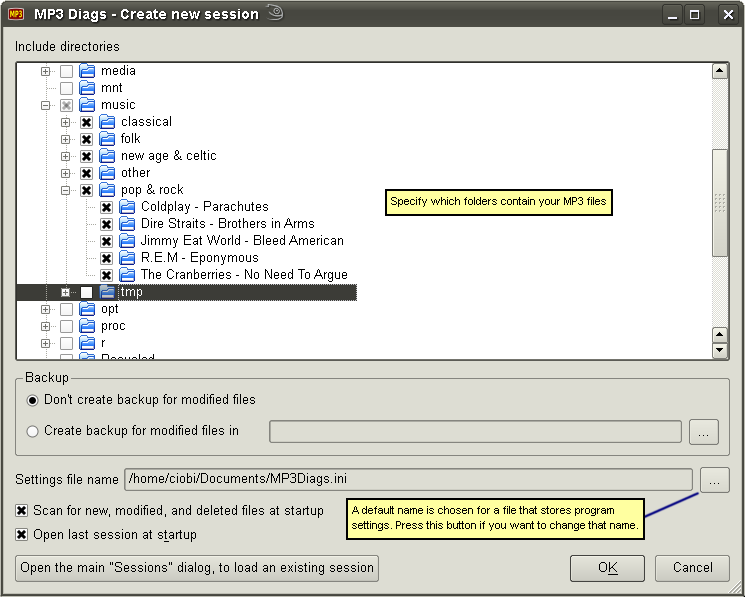
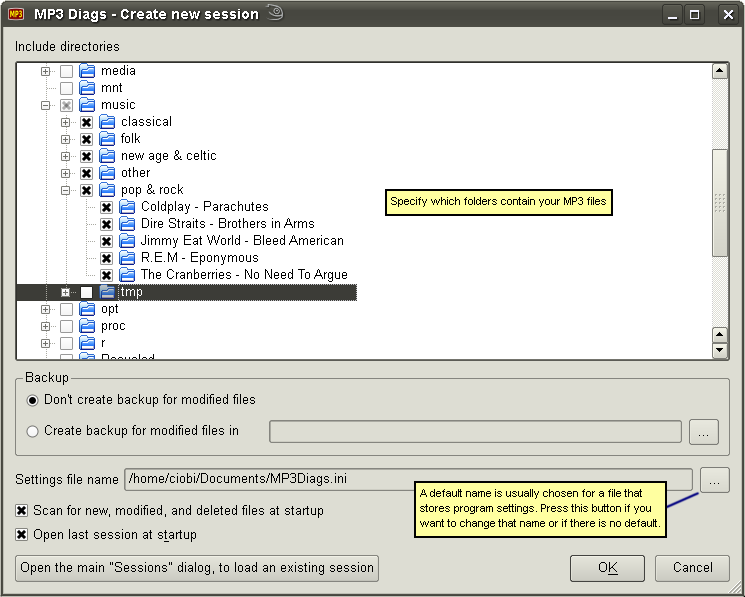
static link for serialization + new repositories
git-svn-id: https://mp3diags.svn.sourceforge.net/svnroot/mp3diags/trunk/mp3diags@111 f8aa0ff1-aaa6-4a14-9261-7bf0db1e1f66

Changed region(s): [[0.4631, 0.7839, 0.8953, 0.9045]]

diff --git a/doc/html/010_getting_the_program.html b/doc/html/010_getting_the_program.html
@@ -192,7 +192,7 @@ Well, there is <a href="http://pdb.finkproject.org/pdb/package.php/mp3diags-mac"
 
 
 <div class="NormalText RegFnt ChpCol2">
-You can download MP3Diags-QQQVERQQQ.tar.gz from <a href="http://sourceforge.net/projects/mp3diags/files/mp3diags-src/MP3Diags-QQQVERQQQ.tar.gz" onClick="javascript: pageTracker._trackPageview('/files/src');">SourceForge</a> or from <a href="http://web.clicknet.ro/mciobanu/mp3diags/MP3Diags-QQQVERQQQ.tar.gz" onClick="javascript: pageTracker._trackPageview('/clicknet/src');">my ISP</a> (SourceForge seems to be in a perpetual restructuring process, so downloads from it don't always work.) At my ISP you can also find a <a href="http://web.clicknet.ro/mciobanu/mp3diags/MP3Diags_Src+Doc-QQQVERQQQ.tar.gz" onClick="javascript: pageTracker._trackPageview('/clicknet/src_doc');">source + documentation bundle</a>. The intended target for the bundle are the packagers. In particular, the documentation doesn't get installed anywhere, but is mereley available for packagers to copy it wherever is appropriate for their distribution.
+You can download MP3Diags.tar.gz from <a href="http://sourceforge.net/projects/mp3diags/files/mp3diags-src/MP3Diags.tar.gz" onClick="javascript: pageTracker._trackPageview('/files/src');">SourceForge</a> or from <a href="http://web.clicknet.ro/mciobanu/mp3diags/MP3Diags-QQQVERQQQ.tar.gz" onClick="javascript: pageTracker._trackPageview('/clicknet/src');">my ISP</a> (SourceForge seems to be in a perpetual restructuring process, so downloads from it don't always work.) At my ISP you can also find a <a href="http://web.clicknet.ro/mciobanu/mp3diags/MP3Diags_Src+Doc-QQQVERQQQ.tar.gz" onClick="javascript: pageTracker._trackPageview('/clicknet/src_doc');">source + documentation bundle</a>. The intended target for the bundle are the packagers. In particular, the documentation doesn't get installed anywhere, but is mereley available for packagers to copy it wherever is appropriate for their distribution.
 </div>
 
 <div class="NormalText RegFnt ChpCol2">
@@ -341,7 +341,7 @@ In many cases it's possible to choose various options or do things differently, 
 
 
 <div class="NormalText RegFnt ChpCol1">
-After the libraries are downloaded / built, download and unpack MP3Diags-QQQVERQQQ.tar.gz from <a href="http://sourceforge.net/projects/mp3diags/files/mp3diags-src/MP3Diags-QQQVERQQQ.tar.gz" onClick="javascript: pageTracker._trackPageview('/files/src');">SourceForge</a> or from <a href="http://web.clicknet.ro/mciobanu/mp3diags/MP3Diags-QQQVERQQQ.tar.gz" onClick="javascript: pageTracker._trackPageview('/clicknet/src');">my ISP</a>, run <span class="Reference">BuildMp3Diags.hta</span>, fill in the fields, and create the project files or build the program. BuildMp3Diags.hta has more details about this process.
+After the libraries are downloaded / built, download and unpack MP3Diags.tar.gz from <a href="http://sourceforge.net/projects/mp3diags/files/mp3diags-src/MP3Diags.tar.gz" onClick="javascript: pageTracker._trackPageview('/files/src');">SourceForge</a> or from <a href="http://web.clicknet.ro/mciobanu/mp3diags/MP3Diags-QQQVERQQQ.tar.gz" onClick="javascript: pageTracker._trackPageview('/clicknet/src');">my ISP</a>, run <span class="Reference">BuildMp3Diags.hta</span>, fill in the fields, and create the project files or build the program. BuildMp3Diags.hta has more details about this process.
 </div>
 
 <div class="NormalText RegFnt ChpCol1">
@@ -399,12 +399,12 @@ See the notes above about <a href="#code">requirements and how to build the code
 </div>
 
 <div class="NormalText RegFnt ChpCol1">
-Since this is my first attempt at creating distributable binaries, I'm not very confident that they are of good quality. One known issue is that they are not signed. Another issue is that the dependecies might not be best (e.g. the package requires some version of a library while most users have a different, incompatible version.) So this is an area where I could use some help, especially in creating binaries for non-openSUSE platforms.
+Since this is my first attempt at creating distributable binaries, I'm not very confident that they are of good quality. One known issue is that they are not signed, so this is an area where I could use some help, especially in creating binaries for non-openSUSE platforms.
 </div>
 
 
 <div class="NormalText RegFnt ChpCol1">
-My hope is that sometime in the future the program will get included in more well-known repositories, and perhaps official distributions, so I don't have to concern myself with building binaries for various platforms. This has already started to happen: MP3 Diags is included in Gentoo and Ubuntu 9.10 (Karmic Koala); repositories that have MP3 Diags and are not built by me exist for Debian 5, openSUSE, and Mac OS X.
+My hope is that sometime in the future the program will get included in more well-known repositories and official distributions, so I don't have to concern myself with building binaries for various platforms. This has already started to happen: MP3 Diags is included in Gentoo, Ubuntu 9.10 (Karmic Koala), and Debian 6.0 (Squeeze); repositories that have MP3 Diags and are not built by me exist for openSUSE and Mac OS X.
 </div>
 
 
@@ -414,7 +414,12 @@ For Linux binaries you'll probably want to install from a repository (or use 1-C
 
 
 <div class="NormalText RegFnt ChpCol1">
-If you can't find a pre-packaged binary for your Linux distribution, or if what you can find is out-of-date, you you may want to try the <a href="#binLinux">generic binaries</a>.
+There used to be specific packages for several versions of a distribution. Building them was a long, tedious process. Starting with 0.99.06.044 there are more generic packages, which are easier to build and should work on all recent versions of a distribution.
+</div>
+
+
+<div class="NormalText RegFnt ChpCol1">
+If you can't find a pre-packaged binary for your Linux distribution, or if what you can find is out-of-date, you may want to try the <a href="#binLinux">generic Linux binaries</a>. Also, if your distribution is "based" on some other distribution that has packages that I build, you may want to try those packages or the repositories; they should work in many cases, because they are built in a way that minimizes dependency issues.
 </div>
 
 
@@ -427,8 +432,8 @@ If you can't find a pre-packaged binary for your Linux distribution, or if what 
 <div class="NormalText RegFnt ChpCol2">
 There is a pretty standard Windows installer, as well as a zip archive with the executable and the DLLs it needs. Either one of these should be OK:
 <ul>
-    <li> <a href="http://sourceforge.net/projects/mp3diags/files/mp3diags-windows-setup/MP3DiagsSetup-QQQVERQQQ.exe" onClick="javascript: pageTracker._trackPageview('/files/setup');">Windows 32bit installer</a> (if the link doesn't work, there's a copy at my ISP, <a href="http://web.clicknet.ro/mciobanu/mp3diags/MP3DiagsSetup-QQQVERQQQ.exe" onClick="javascript: pageTracker._trackPageview('/clicknet/setup');">here</a>) </li>
-    <li> <a href="http://sourceforge.net/projects/mp3diags/files/mp3diags-windows-exe/Mp3DiagsExe-QQQVERQQQ.zip" onClick="javascript: pageTracker._trackPageview('/files/exe');">Zip archive with Windows 32bit executable and required DLLs</a></li>
+    <li> <a href="http://sourceforge.net/projects/mp3diags/files/mp3diags-windows-setup/MP3DiagsSetup.exe" onClick="javascript: pageTracker._trackPageview('/files/setup');">Windows 32bit installer</a> (if the link doesn't work, there's a copy at my ISP, <a href="http://web.clicknet.ro/mciobanu/mp3diags/MP3DiagsSetup-QQQVERQQQ.exe" onClick="javascript: pageTracker._trackPageview('/clicknet/setup');">here</a>) </li>
+    <li> <a href="http://sourceforge.net/projects/mp3diags/files/mp3diags-windows-exe/MP3DiagsExe.zip" onClick="javascript: pageTracker._trackPageview('/files/exe');">Zip archive with Windows 32bit executable and required DLLs</a></li>
 </ul>
 </div>
 
@@ -451,13 +456,13 @@ Starting with version 0.99.06.043, "generic" Linux executables are provided. The
 <div class="NormalText RegFnt ChpCol1">
 This is what's available:
 <ul>
-    <li><a href="http://sourceforge.net/projects/mp3diags/files/mp3diags-linux-bin/i686/MP3Diags-Linux-i686-QQQVERQQQ.bz2/download" onClick="javascript: pageTracker._trackPageview('/files/linux/i686');">Linux i686 binary</a></li>
-    <li><a href="http://sourceforge.net/projects/mp3diags/files/mp3diags-linux-bin/x86_64/MP3Diags-Linux-x86_64-QQQVERQQQ.bz2/download" onClick="javascript: pageTracker._trackPageview('/files/linux/x86_64');">Linux x86-64 binary</a></li>
+    <li><a href="http://sourceforge.net/projects/mp3diags/files/mp3diags-linux-bin/i686/MP3Diags-Linux-i686.bz2/download" onClick="javascript: pageTracker._trackPageview('/files/linux/i686');">Linux i686 binary</a></li>
+    <li><a href="http://sourceforge.net/projects/mp3diags/files/mp3diags-linux-bin/x86_64/MP3Diags-Linux-x86_64.bz2/download" onClick="javascript: pageTracker._trackPageview('/files/linux/x86_64');">Linux x86-64 binary</a></li>
 </ul>
 </div>
 
 <div class="NormalText RegFnt ChpCol1">
-If you use these, you'll have to make sure that you have the correct dependencies. All you'll need to add is probably Qt 4 (if on your distribution the SVG support in Qt 4 is packaged separately, as it is on Debian-based distributions, you'll need to add that as well. Note that the installation will proceed without SVG and the program will run; however, the buttons will have no icons in such a case.) If you have KDE 4.x you probably don't need to add anything.
+If you use these, you'll have to make sure that you have the correct dependencies. All you'll need to add is probably Qt 4. If on your distribution the SVG support in Qt 4 is packaged separately, as it is on Debian-based distributions, you'll need to add that as well. Note that the program will run without SVG, but the buttons will have no icons in such a case. If you have KDE 4.x you probably don't need to add anything.
 </div>
 
 
@@ -480,26 +485,13 @@ There are also binaries that I build at openSUSE Build Service:
 <div class="NormalText RegFnt ChpCol2">
 <table border="1" cellpadding="5" cellspacing="2" class="RegFnt ChpCol1">
     <tr>
-        <td> openSUSE 11.1 </td>
-        <td> <a class="NoUnderline" href="http://download.opensuse.org/repositories/home:/ciobi/openSUSE_11.1/" onClick="javascript: pageTracker._trackPageview('/obs/suse/11.1');"> Repository </a> </td>
-        <td> <a class="NoUnderline" href="http://software.opensuse.org/ymp/home:ciobi/openSUSE_11.1/MP3Diags.ymp" onClick="javascript: pageTracker._trackPageview('/obs/suse/11.1/ymp');"> 1-Click Install </a> </td>
-        <td> <a class="NoUnderline" href="http://download.opensuse.org/repositories/home:/ciobi/openSUSE_11.1/i586/" onClick="javascript: pageTracker._trackPageview('/obs/suse/11.1/i586');"> i586 .rpm </a> </td>
-        <td> <a class="NoUnderline" href="http://download.opensuse.org/repositories/home:/ciobi/openSUSE_11.1/x86_64/" onClick="javascript: pageTracker._trackPageview('/obs/suse/11.1/x86_64');"> x86_64 .rpm </a> </td>
-    </tr>
-    <tr>
-        <td> openSUSE 11.0 </td>
-        <td> <a class="NoUnderline" href="http://download.opensuse.org/repositories/home:/ciobi/openSUSE_11.0/" onClick="javascript: pageTracker._trackPageview('/obs/suse/11.0');"> Repository </a> </td>
-        <td> <a class="NoUnderline" href="http://software.opensuse.org/ymp/home:ciobi/openSUSE_11.0/MP3Diags.ymp" onClick="javascript: pageTracker._trackPageview('/obs/suse/11.0/ymp');"> 1-Click Install </a> </td>
-        <td> <a class="NoUnderline" href="http://download.opensuse.org/repositories/home:/ciobi/openSUSE_11.0/i586/" onClick="javascript: pageTracker._trackPageview('/obs/suse/11.0/i586');"> i586 .rpm </a> </td>
-        <td> <a class="NoUnderline" href="http://download.opensuse.org/repositories/home:/ciobi/openSUSE_11.0/x86_64/" onClick="javascript: pageTracker._trackPageview('/obs/suse/11.0/x86_64');"> x86_64 .rpm </a> </td>
+        <td> <a class="NoUnderline" href="http://download.opensuse.org/repositories/home:/ciobi/openSUSE/" onClick="javascript: pageTracker._trackPageview('/obs/suse');"> Repository </a> </td>
+        <td> <a class="NoUnderline" href="http://software.opensuse.org/ymp/home:ciobi/openSUSE/MP3Diags.ymp" onClick="javascript: pageTracker._trackPageview('/obs/suse/ymp');"> 1-Click Install </a> </td>
+        <td> <a class="NoUnderline" href="http://download.opensuse.org/repositories/home:/ciobi/openSUSE/i586/" onClick="javascript: pageTracker._trackPageview('/obs/suse/i586');"> i586 .rpm </a> </td>
+        <td> <a class="NoUnderline" href="http://download.opensuse.org/repositories/home:/ciobi/openSUSE/x86_64/" onClick="javascript: pageTracker._trackPageview('/obs/suse/x86_64');"> x86_64 .rpm </a> </td>
     </tr>
 </table>
 </div>
-
-<div class="NormalText RegFnt ChpCol2">
-I will stop building these if the PackMan repository seems to be kept pretty up-to-date.
-</div>
-
 
 
 
@@ -518,22 +510,9 @@ Binaries that I build at openSUSE Build Service:
 <div class="NormalText RegFnt ChpCol1">
 <table border="1" cellpadding="5" cellspacing="2" class="RegFnt ChpCol2">
     <tr>
-        <td> Fedora 11 </td>
-        <td> <a class="NoUnderline" href="http://download.opensuse.org/repositories/home:/ciobi/Fedora_11/" onClick="javascript: pageTracker._trackPageview('/obs/fedora/11');"> Home directory </a> </td>
-        <td> <a class="NoUnderline" href="http://download.opensuse.org/repositories/home:/ciobi/Fedora_11/i386/" onClick="javascript: pageTracker._trackPageview('/obs/fedora/11/i386');"> i386 .rpm </a> </td>
-        <td> <a class="NoUnderline" href="http://download.opensuse.org/repositories/home:/ciobi/Fedora_11/x86_64/" onClick="javascript: pageTracker._trackPageview('/obs/fedora/11/x86_64');"> x86_64 .rpm </a> </td>
-    </tr>
-    <tr>
-        <td> Fedora 10 </td>
-        <td> <a class="NoUnderline" href="http://download.opensuse.org/repositories/home:/ciobi/Fedora_10/" onClick="javascript: pageTracker._trackPageview('/obs/fedora/10');"> Home directory </a> </td>
-        <td> <a class="NoUnderline" href="http://download.opensuse.org/repositories/home:/ciobi/Fedora_10/i386/" onClick="javascript: pageTracker._trackPageview('/obs/fedora/10/i386');"> i386 .rpm </a> </td>
-        <td> <a class="NoUnderline" href="http://download.opensuse.org/repositories/home:/ciobi/Fedora_10/x86_64/" onClick="javascript: pageTracker._trackPageview('/obs/fedora/10/x86_64');"> x86_64 .rpm </a> </td>
-    </tr>
-    <tr>
-        <td> Fedora 9 </td>
-        <td> <a class="NoUnderline" href="http://download.opensuse.org/repositories/home:/ciobi/Fedora_9/" onClick="javascript: pageTracker._trackPageview('/obs/fedora/9');"> Home directory </a> </td>
-        <td> <a class="NoUnderline" href="http://download.opensuse.org/repositories/home:/ciobi/Fedora_9/i386/" onClick="javascript: pageTracker._trackPageview('/obs/fedora/9/i386');"> i386 .rpm </a> </td>
-        <td> <a class="NoUnderline" href="http://download.opensuse.org/repositories/home:/ciobi/Fedora_9/x86_64/" onClick="javascript: pageTracker._trackPageview('/obs/fedora/9/x86_64');"> x86_64 .rpm </a> </td>
+        <td> <a class="NoUnderline" href="http://download.opensuse.org/repositories/home:/ciobi/Fedora/" onClick="javascript: pageTracker._trackPageview('/obs/fedora');"> Home directory </a> </td>
+        <td> <a class="NoUnderline" href="http://download.opensuse.org/repositories/home:/ciobi/Fedora/i386/" onClick="javascript: pageTracker._trackPageview('/obs/fedora/i386');"> i386 .rpm </a> </td>
+        <td> <a class="NoUnderline" href="http://download.opensuse.org/repositories/home:/ciobi/Fedora/x86_64/" onClick="javascript: pageTracker._trackPageview('/obs/fedora/x86_64');"> x86_64 .rpm </a> </td>
     </tr>
 </table>
 </div>
@@ -563,21 +542,15 @@ For the latest version, there are binaries that I build at openSUSE Build Servic
 <div class="NormalText RegFnt ChpCol2">
 <table border="1" cellpadding="5" cellspacing="2" class="RegFnt ChpCol1">
     <tr>
-        <td> Ubuntu 9.04 </td>
-        <td> <a class="NoUnderline" href="http://download.opensuse.org/repositories/home:/ciobi/xUbuntu_9.04/" onClick="javascript: pageTracker._trackPageview('/obs/ubuntu/9.04');"> Repository </a> (<a class="NoUnderline" href="http://ftp5.gwdg.de/pub/opensuse/repositories/home:/ciobi/xUbuntu_9.04/" onClick="javascript: pageTracker._trackPageview('/obs/mirror/ubuntu/9.04');">mirror</a>)</td>
-        <!-- <td> <a class="NoUnderline" href="http://ftp5.gwdg.de/pub/opensuse/repositories/home:/ciobi/xUbuntu_9.04/"> Repository </a> </td> -->
-        <td> <a class="NoUnderline" href="http://download.opensuse.org/repositories/home:/ciobi/xUbuntu_9.04/i386/mp3diags_QQQVERQQQ_i386.deb" onClick="javascript: pageTracker._trackPageview('/obs/ubuntu/9.04/i386');"> i386 .deb </a> </td>
-        <td> <a class="NoUnderline" href="http://download.opensuse.org/repositories/home:/ciobi/xUbuntu_9.04/amd64/mp3diags_QQQVERQQQ_amd64.deb" onClick="javascript: pageTracker._trackPageview('/obs/ubuntu/9.04/amd64');"> amd64 .deb </a> </td>
-    </tr>
-    <tr>
-        <td> Ubuntu 8.10 </td>
-        <!-- <td> <a class="NoUnderline" href="http://download.opensuse.org/repositories/home:/ciobi/xUbuntu_8.10/"> Repository </a> (<a class="NoUnderline" href="http://ftp5.gwdg.de/pub/opensuse/repositories/home:/ciobi/xUbuntu_8.10/">mirror</a>)</td> -->
-        <td> <a class="NoUnderline" href="http://ftp5.gwdg.de/pub/opensuse/repositories/home:/ciobi/xUbuntu_8.10/" onClick="javascript: pageTracker._trackPageview('/obs/mirror/ubuntu/8.10');"> Repository </a> </td>
-        <td> <a class="NoUnderline" href="http://download.opensuse.org/repositories/home:/ciobi/xUbuntu_8.10/i386/mp3diags_QQQVERQQQ_i386.deb" onClick="javascript: pageTracker._trackPageview('/obs/mirror/ubuntu/8.10/i386');"> i386 .deb </a> </td>
-        <td> <a class="NoUnderline" href="http://download.opensuse.org/repositories/home:/ciobi/xUbuntu_8.10/amd64/mp3diags_QQQVERQQQ_amd64.deb" onClick="javascript: pageTracker._trackPageview('/obs/mirror/ubuntu/8.10/amd64');"> amd64 .deb </a> </td>
+        <td> <a class="NoUnderline" href="http://download.opensuse.org/repositories/home:/ciobi/Ubuntu/" onClick="javascript: pageTracker._trackPageview('/obs/ubuntu');"> Repository </a> (<a class="NoUnderline" href="http://ftp5.gwdg.de/pub/opensuse/repositories/home:/ciobi/Ubuntu/" onClick="javascript: pageTracker._trackPageview('/obs/mirror/ubuntu');">mirror 1</a>) (<a class="NoUnderline" href="http://widehat.opensuse.org/repositories/home:/ciobi/Ubuntu/" onClick="javascript: pageTracker._trackPageview('/obs/mirror2/ubuntu');">mirror 2</a>)</td>
+        <!-- <td> <a class="NoUnderline" href="http://ftp5.gwdg.de/pub/opensuse/repositories/home:/ciobi/Ubuntu/"> Repository </a> </td> -->
+        <td> <a class="NoUnderline" href="http://download.opensuse.org/repositories/home:/ciobi/Ubuntu/i386/mp3diags_QQQVERQQQ_i386.deb" onClick="javascript: pageTracker._trackPageview('/obs/ubuntu/i386');"> i386 .deb </a> </td>
+        <td> <a class="NoUnderline" href="http://download.opensuse.org/repositories/home:/ciobi/Ubuntu/amd64/mp3diags_QQQVERQQQ_amd64.deb" onClick="javascript: pageTracker._trackPageview('/obs/ubuntu/amd64');"> amd64 .deb </a> </td>
     </tr>
 </table>
 </div>
+
+
 
 <div class="NormalText RegFnt ChpCol2">
 Normally you should use the repositories rather than the .deb file, so you are notified automatically about updates. Another issue with the .deb files is that the direct links are broken for a while after running a new build (the link is for the old version, which got replaced by the new version.) You can still get a .deb file from the repository, though.
@@ -589,16 +562,12 @@ In my tests, the Ubuntu 9.04 i386 .deb installation was OK except for a warning 
 </div>
 
 <div class="NormalText RegFnt ChpCol2 GenericSpace">
-<span class="Reference">deb http://download.opensuse.org/repositories/home:/ciobi/xUbuntu_9.04/ ./</span>
+<span class="Reference">deb http://download.opensuse.org/repositories/home:/ciobi/Ubuntu/ ./</span>
 </div>
 
 
 <div class="NormalText RegFnt ChpCol2">
-Currently the Ubuntu 8.10 and Debian repositories are on a mirror server, so it takes some time for the latest packages to propagate. This is in the hope that new versions will be found automatically by Synaptic. If new versions don't show up as available, please let me know.
-</div>
-
-<div class="NormalText RegFnt ChpCol2">
-The repository on the main server uses redirection, which apparently isn't supported by Synaptic (or at least it wasn't until some time ago, because Ubuntu 9.04 works fine with the main server. Maybe the others work too, but I don't have them installed, so I'll just assume that they don't.) Perhaps somebody would like to test if installation and / or automatic updates work for the main repositories for <a href="http://download.opensuse.org/repositories/home:/ciobi/xUbuntu_8.10/" onClick="javascript: pageTracker._trackPageview('/obs/ubuntu/8.10');">Ubuntu_8.10</a> and <a href="http://download.opensuse.org/repositories/home:/ciobi/Debian_5.0/" onClick="javascript: pageTracker._trackPageview('/obs/debian/5.0');">Debian 5.0</a> and then share the results.
+The repository on the main server uses redirection, which apparently isn't supported by Synaptic (or at least it wasn't until some time ago, because Ubuntu 9.04 works fine with the main server. Maybe the others work too, but I don't have them installed, so I'll just assume that they don't.) Perhaps somebody would like to test if installation and / or automatic updates work for the main repositories and then share the results.
 </div>
 
 
@@ -612,29 +581,33 @@ The repository on the main server uses redirection, which apparently isn't suppo
 
 
 <div class="NormalText RegFnt ChpCol1">
-Christian Marillat from <a href="http://www.debian-multimedia.org/" onClick="javascript: pageTracker._trackPageview('/debian_multimedia');">http://www.debian-multimedia.org/</a> notified me that he's building MP3 Diags for Debian 5.0. It can be found in the "unstable" branch. Besides the program being built by somebody who actually knows something about building and did it many times before, you can find there binaries for many other platforms in addition to x86 and AMD64. You can download the i386 package from <a href="http://www.debian-multimedia.org/dists/unstable/main/binary-i386/package/mp3diags.php" onClick="javascript: pageTracker._trackPageview('/debian_multimedia/mp3diags/i386');">this page</a>, but you probably want to add the repository, so you are notified automatically about new releases (see the debian-multimedia.org <a href="http://www.debian-multimedia.org/" onClick="javascript: pageTracker._trackPageview('/debian_multimedia');">home page</a> for instructions about how to add the repository.)
+MP3 Diags is now available from <a href="http://packages.debian.org/unstable/sound/mp3diags" onClick="javascript: pageTracker._trackPageview('/debian/sid');">sid / unstable</a>, but that isn't meant for regular users.
 </div>
 
+<!---
+<div class="NormalText RegFnt ChpCol1">
+Christian Marillat from <a href="http://www.debian-multimedia.org/" onClick="javascript: pageTracker._trackPageview('/debian_multimedia');">http://www.debian-multimedia.org/</a> is building MP3 Diags for Debian 5.0. It can be found in the "unstable" branch. Besides the program being built by somebody who actually knows something about building and did it many times before, you can find there binaries for many other platforms in addition to x86 and AMD64. You can download the i386 package from <a href="http://www.debian-multimedia.org/dists/unstable/main/binary-i386/package/mp3diags.php" onClick="javascript: pageTracker._trackPageview('/debian_multimedia/mp3diags/i386');">this page</a>, but you probably want to add the repository, so you are notified automatically about new releases (see the debian-multimedia.org <a href="http://www.debian-multimedia.org/" onClick="javascript: pageTracker._trackPageview('/debian_multimedia');">home page</a> for instructions about how to add the repository.)
+</div>
+-->
 
 <div class="NormalText RegFnt ChpCol1">
-There are also binaries that I build at openSUSE Build Service:
+For binaries that I build at openSUSE Build Service you should use the ones for Ubuntu. I tested the i386 .deb on a Live 5.0 and it worked fine:
 </div>
 
 
 <div class="NormalText RegFnt ChpCol1">
 <table border="1" cellpadding="5" cellspacing="2" class="RegFnt ChpCol2">
     <tr>
-        <td> Debian 5.0 </td>
-        <!-- <td> <a class="NoUnderline" href="http://download.opensuse.org/repositories/home:/ciobi/Debian_5.0/"> Repository </a> (<a class="NoUnderline" href="http://ftp5.gwdg.de/pub/opensuse/repositories/home:/ciobi/Debian_5.0/">mirror</a>)</td> -->
-        <td> <a class="NoUnderline" href="http://ftp5.gwdg.de/pub/opensuse/repositories/home:/ciobi/Debian_5.0/" onClick="javascript: pageTracker._trackPageview('/obs/mirror/debian/5.0');"> Repository </a> </td>
-        <td> <a class="NoUnderline" href="http://download.opensuse.org/repositories/home:/ciobi/Debian_5.0/i386/mp3diags_QQQVERQQQ_i386.deb" onClick="javascript: pageTracker._trackPageview('/obs/mirror/debian/5.0/i386');"> i386 .deb </a> </td>
-        <td> <a class="NoUnderline" href="http://download.opensuse.org/repositories/home:/ciobi/Debian_5.0/amd64/mp3diags_QQQVERQQQ_amd64.deb" onClick="javascript: pageTracker._trackPageview('/obs/mirror/debian/5.0/amd64');"> amd64 .deb </a> </td>
+        <td> <a class="NoUnderline" href="http://download.opensuse.org/repositories/home:/ciobi/Ubuntu/" onClick="javascript: pageTracker._trackPageview('/obs/debian');"> Repository </a> (<a class="NoUnderline" href="http://ftp5.gwdg.de/pub/opensuse/repositories/home:/ciobi/Ubuntu/" onClick="javascript: pageTracker._trackPageview('/obs/mirror/debian');">mirror 1</a>) (<a class="NoUnderline" href="http://widehat.opensuse.org/repositories/home:/ciobi/Ubuntu/" onClick="javascript: pageTracker._trackPageview('/obs/mirror2/debian');">mirror 2</a>)</td>
+        <!-- <td> <a class="NoUnderline" href="http://ftp5.gwdg.de/pub/opensuse/repositories/home:/ciobi/Ubuntu/"> Repository </a> </td> -->
+        <td> <a class="NoUnderline" href="http://download.opensuse.org/repositories/home:/ciobi/Ubuntu/i386/mp3diags_QQQVERQQQ_i386.deb" onClick="javascript: pageTracker._trackPageview('/obs/debian/i386');"> i386 .deb </a> </td>
+        <td> <a class="NoUnderline" href="http://download.opensuse.org/repositories/home:/ciobi/Ubuntu/amd64/mp3diags_QQQVERQQQ_amd64.deb" onClick="javascript: pageTracker._trackPageview('/obs/debian/amd64');"> amd64 .deb </a> </td>
     </tr>
 </table>
 </div>
 
 <div class="NormalText RegFnt ChpCol1">
-The repository is a mirror. I'm not sure if the main repository at <a href="http://download.opensuse.org/repositories/home:/ciobi/Debian_5.0/" onClick="javascript: pageTracker._trackPageview('/obs/debian/5.0');">download.opensuse.org</a> can be used, because of redirection issues. (See also the notes for Ubuntu, above.)
+I'm not sure if the main repository can be used, because of redirection issues (see also the notes for Ubuntu, above); if it can't, the mirrors should work.
 </div>
 
 
@@ -673,22 +646,15 @@ Binaries that I build at openSUSE Build Service:
 <div class="NormalText RegFnt ChpCol1">
 <table border="1" cellpadding="5" cellspacing="2" class="RegFnt ChpCol2">
     <tr>
-        <td> Mandriva 2009.0 </td>
-        <td> <a class="NoUnderline" href="http://download.opensuse.org/repositories/home:/ciobi/Mandriva_2009/" onClick="javascript: pageTracker._trackPageview('/obs/mandriva/2009.0/');"> Home directory </a> </td>
-        <td> <a class="NoUnderline" href="http://download.opensuse.org/repositories/home:/ciobi/Mandriva_2009/i586/" onClick="javascript: pageTracker._trackPageview('/obs/mandriva/2009.0/i586');"> i586 .rpm </a> </td>
-        <td> <a class="NoUnderline" href="http://download.opensuse.org/repositories/home:/ciobi/Mandriva_2009/x86_64/" onClick="javascript: pageTracker._trackPageview('/obs/mandriva/2009.0/x86_64');"> x86_64 .rpm </a> </td>
-    </tr>
-    <tr>
-        <td> Mandriva 2009.1 </td>
-        <td> <a class="NoUnderline" href="http://download.opensuse.org/repositories/home:/ciobi/Mandriva_2009.1/" onClick="javascript: pageTracker._trackPageview('/obs/mandriva/2009.1');"> Home directory </a> </td>
-        <td> <a class="NoUnderline" href="http://download.opensuse.org/repositories/home:/ciobi/Mandriva_2009.1/i586/" onClick="javascript: pageTracker._trackPageview('/obs/mandriva/2009.1/i586');"> i586 .rpm </a> </td>
-        <td> <a class="NoUnderline" href="http://download.opensuse.org/repositories/home:/ciobi/Mandriva_2009.1/x86_64/" onClick="javascript: pageTracker._trackPageview('/obs/mandriva/2009.1/x86_64');"> x86_64 .rpm </a> </td>
+        <td> <a class="NoUnderline" href="http://download.opensuse.org/repositories/home:/ciobi/Mandriva/" onClick="javascript: pageTracker._trackPageview('/obs/mandriva/');"> Home directory </a> </td>
+        <td> <a class="NoUnderline" href="http://download.opensuse.org/repositories/home:/ciobi/Mandriva/i586/" onClick="javascript: pageTracker._trackPageview('/obs/mandriva/i586');"> i586 .rpm </a> </td>
+        <td> <a class="NoUnderline" href="http://download.opensuse.org/repositories/home:/ciobi/Mandriva/x86_64/" onClick="javascript: pageTracker._trackPageview('/obs/mandriva/x86_64');"> x86_64 .rpm </a> </td>
     </tr>
 </table>
 </div>
 
 <div class="NormalText RegFnt ChpCol1">
-I'm not familiar with Mandriva, so I have no idea if the "Home directories" can be used as repositories or not. Also, I didn't test these RPMs, but they should be OK. At least somebody said they were OK.
+I'm not familiar with Mandriva, so I have no idea if the "Home directory" can be used as a repository or not. Also, I didn't test these RPMs, but they should be OK. At least somebody said they were OK.
 </div>
 
 
@@ -703,8 +669,9 @@ I'm not familiar with Mandriva, so I have no idea if the "Home directories" can 
 
 
 <div class="NormalText RegFnt ChpCol2">
-If you can't find a pre-packaged binary for your Linux distribution / version, and you don't want to build from sources, you you may want to try the <a href="#binLinux">generic binaries</a>.
+If you can't find a pre-packaged binary for your Linux distribution / version, and you don't want to build from sources, have a look at the <a href="#binaries">notes about binaries</a> above for suggestions about getting binaries and packages.
 </div>
+
 
 
 <div class="NormalText RegFnt ChpCol2">
@@ -727,7 +694,7 @@ If you want to build binaries for other platforms, please let me know, so I can 
 </div>
 
 <div class="NormalText RegFnt ChpCol1">
-If for some reason you don't want to look at the documentation online, you can download it <a href="http://sourceforge.net/projects/mp3diags/files/mp3diags-doc/" onClick="javascript: pageTracker._trackPageview('/files/doc');">here</a>.
+If for some reason you don't want to look at the documentation online, you can download it <a href="http://sourceforge.net/projects/mp3diags/files/mp3diags-doc/MP3DiagsDoc.tar.gz" onClick="javascript: pageTracker._trackPageview('/files/doc');">here</a>.
 </div>
 
 

diff --git a/doc/html/110_first_run.html b/doc/html/110_first_run.html
@@ -61,11 +61,11 @@
 
 
 <div class="FreeNormalText RegFnt ChpCol2">
-When MP3 Diags is first started, it will prompt you to choose which directories you want it to process. Its configuration options are stored in an ".ini" file. Usually there will be a default name already filled in, which is operating system - specific. If you want a different name, you can choose something else, by clicking on the button at its right. After you press OK, the scanning process begins. It will create another file for storing the details about your MP3 files, with the same name as the ".ini" file except for the ".dat" extension.
+When MP3 Diags is first started, it will prompt you to choose which directories you want it to process. Its configuration options are stored in an ".ini" file. Usually there will be a default name already filled in, which is operating system - specific. If you want a different name (or if there is no default), you can choose something else, by clicking on the button at its right. After you press OK, the scanning process begins. It will create another file for storing the details about your MP3 files, with the same name as the ".ini" file except for the ".dat" extension.
 </div>
 
 <div class="NormalText RegFnt ChpCol2">
-Note that you <b>don't need to create or set up</b> the ".ini" file, but merely to choose a name for it if you don't like the default. Actually it's supposed to be the name of a new file, one that doesn't already exist. MP3 Diags will fill in all the details.
+Note that you <b>don't need to create or set up</b> the ".ini" file, but merely to choose a name for it if you don't like the default or if there is no default. Actually it's supposed to be the name of a new file, one that doesn't already exist. MP3 Diags will fill in all the details.
 </div>
 
 <div class="SubChapterText RegFnt ChpCol1">

diff --git a/src/AboutDlgImpl.cpp b/src/AboutDlgImpl.cpp
@@ -177,3 +177,57 @@ Based on the above two settings, 8dot3 name creation is enabled on c:.
 
 //ttt2 mutt rips: https://sourceforge.net/projects/mp3diags/forums/forum/947206/topic/3441516 ; also, check for missing tracks and other album-related issues;
 
+
+/*
+
+ttt0
+
+Nov 2009 *  	165  	6,179  	992  	19,738  	0 (0)  	8
+Oct 2009 	200 	23,315 	4,160 	73,627 	0 (0) 	31
+Sep 2009 	168 	26,310 	4,024 	78,554 	0 (0) 	42
+Aug 2009 	363 	52,294 	8,370 	178,317 	0 (0) 	30
+Jul 2009 	286 	8,977 	1,003 	17,427 	0 (0) 	24
+Jun 2009 	590 	7,147 	642 	9,181 	0 (0) 	22
+May 2009 	23,525 	145 	0 	32 	0 (0) 	0
+Apr 2009 	115,159 	3 	0 	0 	0 (0) 	0
+*/
+
+/*
+ttt0
+
+http://svnbook.red-bean.com/en/1.1/ch07s02.html
+http://subversion.tigris.org/ds/viewMessage.do?dsForumId=462&dsMessageId=228197
+#include <svn_io.h>
+subversion bindings
+http://subversion.tigris.org/ds/viewMessage.do?dsForumId=462&dsMessageId=224944
+*/
+
+
+/*
+
+[ciobi07@shell-24008 ~]$ ls /home/frs/project/m/mp/mp3diags
+mp3diags-doc  mp3diags-linux-bin  mp3diags-src  mp3diags-windows-exe  mp3diags-windows-setup  obsolete
+[ciobi07@shell-24008 ~]$ ls /home/frs/project/m/mp/mp3diags/
+mp3diags-doc/           mp3diags-src/           mp3diags-windows-setup/
+mp3diags-linux-bin/     mp3diags-windows-exe/   obsolete/
+[ciobi07@shell-24008 ~]$ ls /home/frs/project/m/mp/mp3diags/mp3diags-src/
+MP3Diags-0.99.02.011.tar.gz  MP3Diags-0.99.03.022.tar.gz  MP3Diags-0.99.05.033.tar.gz  MP3Diags-0.99.06.042.tar.gz
+MP3Diags-0.99.02.012.tar.gz  MP3Diags-0.99.04.026.tar.gz  MP3Diags-0.99.05.034.tar.gz  MP3Diags-0.99.06.043.tar.gz
+MP3Diags-0.99.02.014.tar.gz  MP3Diags-0.99.05.029.tar.gz  MP3Diags-0.99.05.037.tar.gz  MP3Diags-0.99.06.044.tar.gz
+MP3Diags-0.99.02.016.tar.gz  MP3Diags-0.99.05.030.tar.gz  MP3Diags-0.99.05.038.tar.gz  MP3Diags.tar.gz
+MP3Diags-0.99.02.018.tar.gz  MP3Diags-0.99.05.031.tar.gz  MP3Diags-0.99.06.040.tar.gz  last
+MP3Diags-0.99.02.020.tar.gz  MP3Diags-0.99.05.032.tar.gz  MP3Diags-0.99.06.041.tar.gz
+[ciobi07@shell-24008 ~]$ cp /home/frs/project/m/mp/mp3diags/mp3diags-src/MP3Diags-0.99.06.044.tar.gz  /home/frs/project/m/mp/mp3diags/mp3diags-src/MP3Diags-0.99.06.044.tgz
+[ciobi07@shell-24008 ~]$ ls /home/frs/project/m/mp/mp3diags/mp3diags-src/
+MP3Diags-0.99.02.011.tar.gz  MP3Diags-0.99.03.022.tar.gz  MP3Diags-0.99.05.033.tar.gz  MP3Diags-0.99.06.042.tar.gz
+MP3Diags-0.99.02.012.tar.gz  MP3Diags-0.99.04.026.tar.gz  MP3Diags-0.99.05.034.tar.gz  MP3Diags-0.99.06.043.tar.gz
+MP3Diags-0.99.02.014.tar.gz  MP3Diags-0.99.05.029.tar.gz  MP3Diags-0.99.05.037.tar.gz  MP3Diags-0.99.06.044.tar.gz
+MP3Diags-0.99.02.016.tar.gz  MP3Diags-0.99.05.030.tar.gz  MP3Diags-0.99.05.038.tar.gz  MP3Diags-0.99.06.044.tgz
+MP3Diags-0.99.02.018.tar.gz  MP3Diags-0.99.05.031.tar.gz  MP3Diags-0.99.06.040.tar.gz  MP3Diags.tar.gz
+MP3Diags-0.99.02.020.tar.gz  MP3Diags-0.99.05.032.tar.gz  MP3Diags-0.99.06.041.tar.gz  last
+[ciobi07@shell-24008 ~]$ rm /home/frs/project/m/mp/mp3diags/mp3diags-windows-setup/
+MP3DiagsSetup-0.99.06.043.exe  MP3DiagsSetup-0.99.06.044.exe  older/
+[ciobi07@shell-24008 ~]$ rm /home/frs/project/m/mp/mp3diags/mp3diags-windows-setup/older/MP3DiagsSetup-0.99.05.029.exe
+[ciobi07@shell-24008 ~]$
+*/
+
